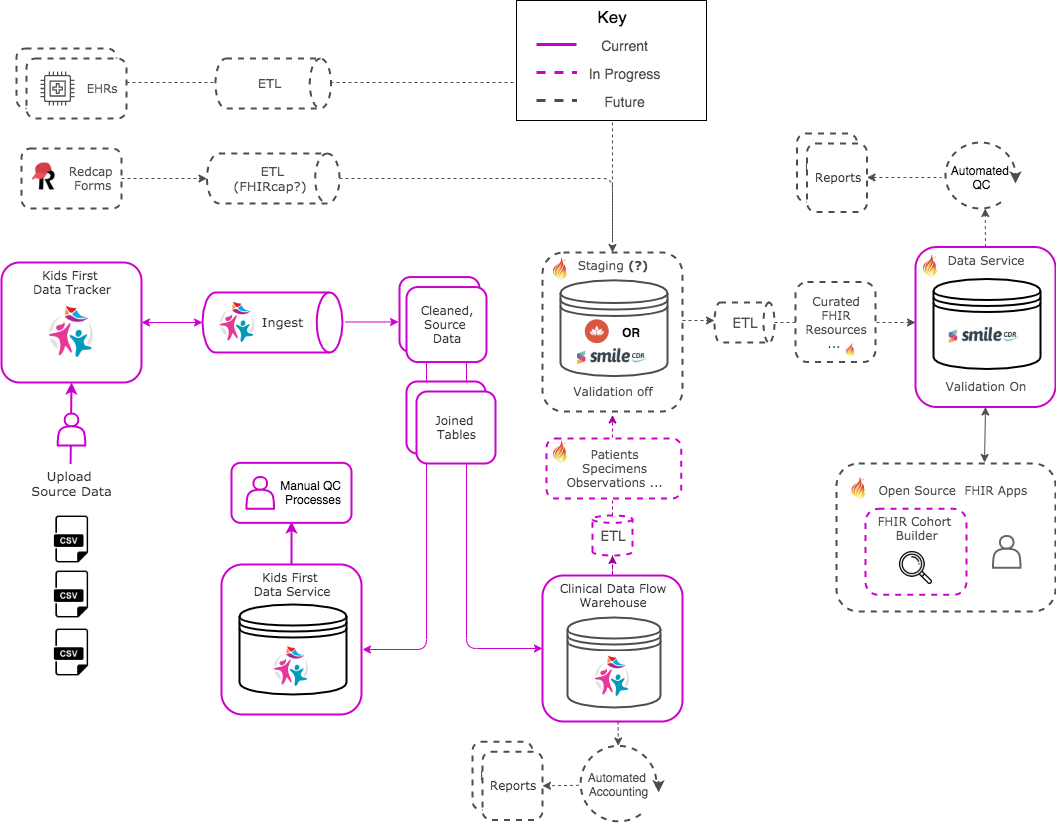
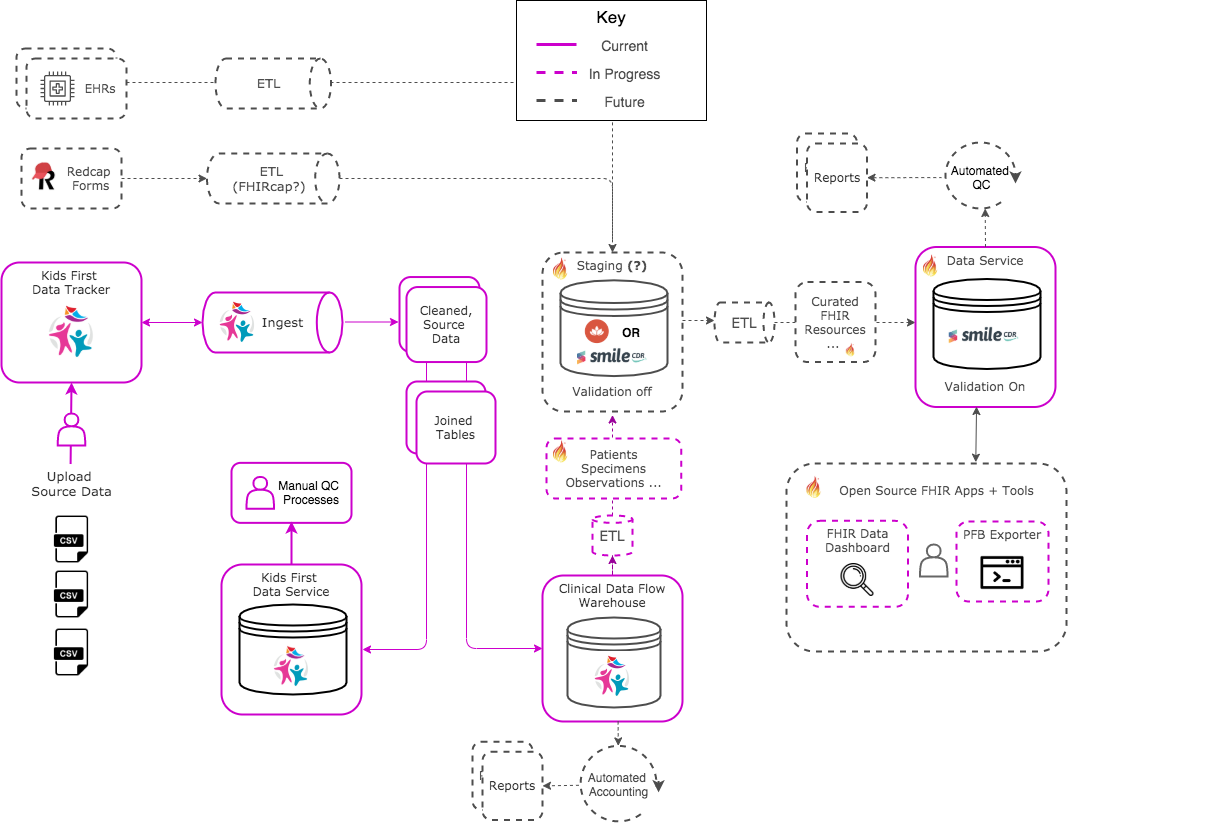
:memo: Update readme and arch w/ fhir things, and pfb exp

diff --git a/README.md b/README.md
@@ -18,6 +18,9 @@ Project management and design artifacts for [Clinical Data Flow](https://d3b.io/
 
 - [Data Ingest Library](https://github.com/kids-first/kf-lib-data-ingest)
 - RedCap to FHIR (FHIR Cap) - TBD
-- [Warehouse](warehouse/README.md)
+- [Ingest Warehouse](warehouse/README.md)
 - FHIR Staging Service - TBD
 - [FHIR Data Service](https://github.com/kids-first/kf-api-fhir-service)
+- [FHIR Data Model](https://github.com/kids-first/kf-model-fhir)
+- [FHIR Data Dashboard](https://github.com/kids-first/kf-ui-fhir-data-dashboard)
+
